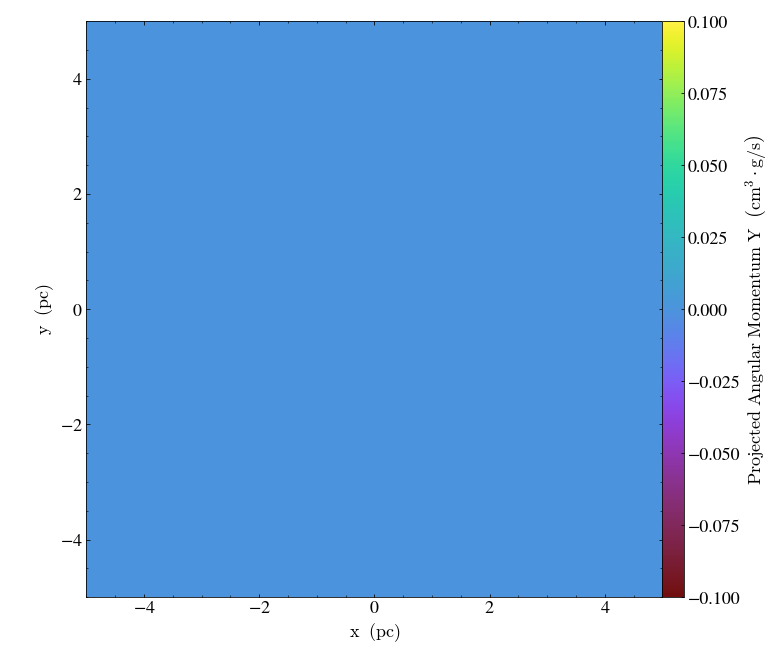
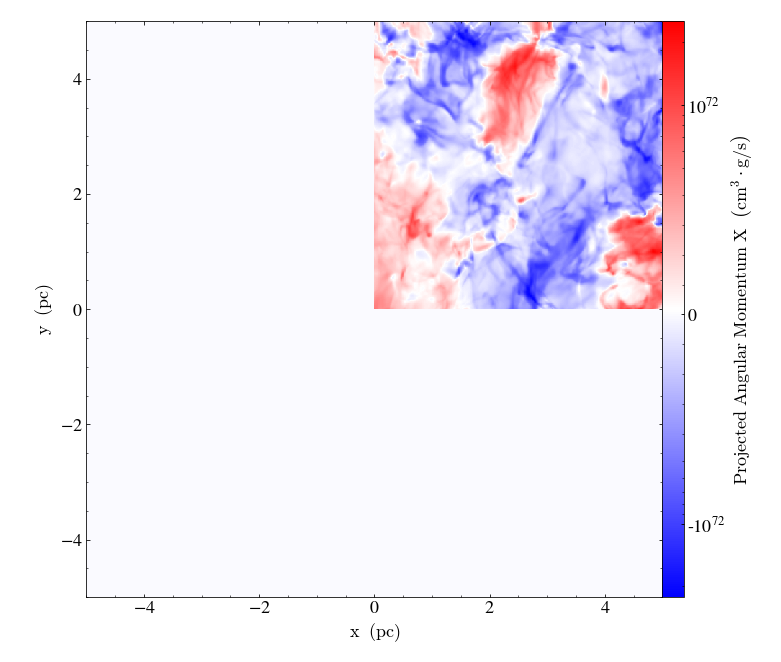
Jan 18 AM Updates

diff --git a/Assignment_2/0060/Jan_19_Plotting.py b/Assignment_2/0060/Jan_19_Plotting.py
@@ -1,0 +1,46 @@
+#!/usr/bin/env python3
+# -*- coding: utf-8 -*-
+"""
+Created on Fri Jan 19 19:53:35 2018
+
+@author: sfielder
+"""
+
+# Import Packages here.
+import yt as yt
+
+# Call different data sets here, possibly create loop.
+ds = yt.load("~/bigdata/Fiducial00/data.0060.3d.hdf5")
+
+#Loading all data into one object.
+ad = ds.all_data()
+
+#Printing Derived Variables to be able to use (comment in if needed)
+'''
+for i in sorted(ds.derived_field_list):
+    print(i)
+'''
+
+
+# Basic Projection Plots
+
+#Density Projection along z
+yt.ProjectionPlot(ds, "z", "density").save("z_mass_density_plot.png")
+
+#Angular Momentum (x,y) Projected along z
+z_projected_angular_momentum_y = yt.ProjectionPlot(ds, "z", "angular_momentum_y",data_source=ad)
+z_projected_angular_momentum_y.set_cmap(field="angular_momentum_y", cmap='bwr')
+z_projected_angular_momentum_y.save("z_projected_angular_momentum_y.png")
+z_projected_angular_momentum_x = yt.ProjectionPlot(ds, "z", "angular_momentum_x",data_source=ad)
+z_projected_angular_momentum_x.set_cmap(field="angular_momentum_x", cmap='bwr')
+z_projected_angular_momentum_x.save("z_projected_angular_momentum_x.png")
+
+#Velocity along z direction of z-velocity
+z_projected_z_velocity = yt.ProjectionPlot(ds, "z", "velocity_z")
+z_projected_z_velocity.set_cmap(field="velocity_z", cmap='bwr')
+z_projected_z_velocity.save("z_velocity_density_plot.png")
+
+#Basic Probability Density Plots
+
+plot_1D_PDF_Density = yt.ProfilePlot(ad, "density", "ones", weight_field=None)
+plot_1D_PDF_Density.save("1D_PDF_Density.png")

diff --git a/Assignment_2/0100/Jan_19_Plotting.py b/Assignment_2/0100/Jan_19_Plotting.py
@@ -1,0 +1,46 @@
+#!/usr/bin/env python3
+# -*- coding: utf-8 -*-
+"""
+Created on Fri Jan 19 19:53:35 2018
+
+@author: sfielder
+"""
+
+# Import Packages here.
+import yt as yt
+
+# Call different data sets here, possibly create loop.
+ds = yt.load("~/bigdata/Fiducial00/data.0100.3d.hdf5")
+
+#Loading all data into one object.
+ad = ds.all_data()
+
+#Printing Derived Variables to be able to use (comment in if needed)
+'''
+for i in sorted(ds.derived_field_list):
+    print(i)
+'''
+
+
+# Basic Projection Plots
+
+#Density Projection along z
+yt.ProjectionPlot(ds, "z", "density").save("z_mass_density_plot.png")
+
+#Angular Momentum (x,y) Projected along z
+z_projected_angular_momentum_y = yt.ProjectionPlot(ds, "z", "angular_momentum_y",data_source=ad)
+z_projected_angular_momentum_y.set_cmap(field="angular_momentum_y", cmap='bwr')
+z_projected_angular_momentum_y.save("z_projected_angular_momentum_y.png")
+z_projected_angular_momentum_x = yt.ProjectionPlot(ds, "z", "angular_momentum_x",data_source=ad)
+z_projected_angular_momentum_x.set_cmap(field="angular_momentum_x", cmap='bwr')
+z_projected_angular_momentum_x.save("z_projected_angular_momentum_x.png")
+
+#Velocity along z direction of z-velocity
+z_projected_z_velocity = yt.ProjectionPlot(ds, "z", "velocity_z")
+z_projected_z_velocity.set_cmap(field="velocity_z", cmap='bwr')
+z_projected_z_velocity.save("z_velocity_density_plot.png")
+
+#Basic Probability Density Plots
+
+plot_1D_PDF_Density = yt.ProfilePlot(ad, "density", "ones", weight_field=None)
+plot_1D_PDF_Density.save("1D_PDF_Density.png")

diff --git a/Assignment_2/Jan_19_Plotting.py b/Assignment_2/Jan_19_Plotting.py
@@ -1,0 +1,44 @@
+#!/usr/bin/env python3
+# -*- coding: utf-8 -*-
+"""
+Created on Fri Jan 19 19:53:35 2018
+
+@author: sfielder
+"""
+
+# Import Packages here.
+import yt as yt
+
+# Call different data sets here, possibly create loop.
+ds = yt.load("~/bigdata/Fiducial00/data.0060.3d.hdf5")
+
+#Loading all data into one object.
+ad = ds.all_data()
+
+#Printing Derived Variables to be able to use (comment in if needed)
+'''
+for i in sorted(ds.derived_field_list):
+    print(i)
+'''
+
+
+# Basic Projection Plots
+
+#Density Projection along z
+yt.ProjectionPlot(ds, "z", "density").save("z_mass_density_plot.png")
+
+#Angular Momentum (x,y) Projected along z
+z_projected_angular_momentum_y = yt.ProjectionPlot(ds, "z", "angular_momentum_y",data_source=ad)
+z_projected_angular_momentum_y.set_cmap(field="angular_momentum_y", cmap='bwr')
+z_projected_angular_momentum_y.save("z_projected_angular_momentum_y.png")
+z_projected_angular_momentum_x = yt.ProjectionPlot(ds, "z", "angular_momentum_x",data_source=ad)
+z_projected_angular_momentum_x.set_cmap(field="angular_momentum_x", cmap='bwr')
+z_projected_angular_momentum_x.save("z_projected_angular_momentum_x.png")
+
+#Velocity along z direction of z-velocity
+yt.ProjectionPlot(ds, "z", "velocity_z").save("z_velocity_density_plot.png")
+
+#Basic Probability Density Plots
+
+plot_1D_PDF_Density = yt.ProfilePlot(ad, "density", "ones", weight_field=None)
+plot_1D_PDF_Density.save("1D_PDF_Density.png")

diff --git a/Assignment_1/Basic_Plots.py b/Assignment_1/Basic_Plots.py
@@ -118,11 +118,16 @@ plot_density_dusk.save("plot_density_dusk.png")
 
 #Projection Plots of Angular Momentum
 dd = ds.sphere([0,0,0],(4,'pc'))
-dbox = ds.box([0,0,0],[5,5,5])
+dbox = ds.r[(0,'pc'):(5,'pc'), (0,'pc'):(5,'pc'), (0,'pc'):(5,'pc')]
 
-
-z_projected_angular_momentum_x_box = yt.ProjectionPlot(ds,"z","angular_momentum_y",data_source=dbox)
+#Boxed Region with area set above in dbox
+'''
+z_projected_angular_momentum_x_box = yt.ProjectionPlot(ds,"z","angular_momentum_x",data_source=dbox)
+z_projected_angular_momentum_x_box.set_cmap(field="angular_momentum_x", cmap='bwr')
 z_projected_angular_momentum_x_box.save("z_projected_angular_momentum_x_box.png")
+'''
+
+#Circular Regions with area set above in 'dd'
 '''
 z_projected_angular_momentum_y = yt.ProjectionPlot(ds, "z", "angular_momentum_y",data_source=dd)
 z_projected_angular_momentum_y.set_cmap(field="angular_momentum_y", cmap='bwr')
